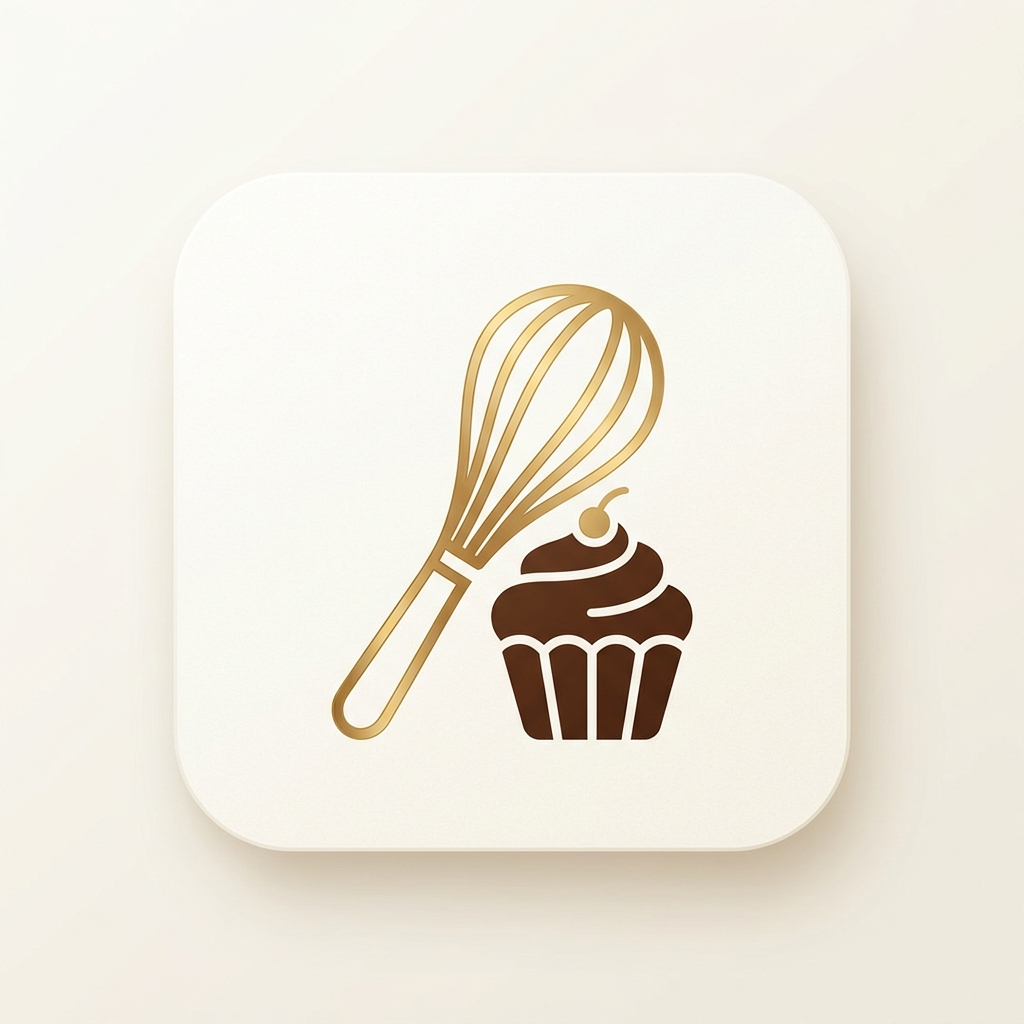
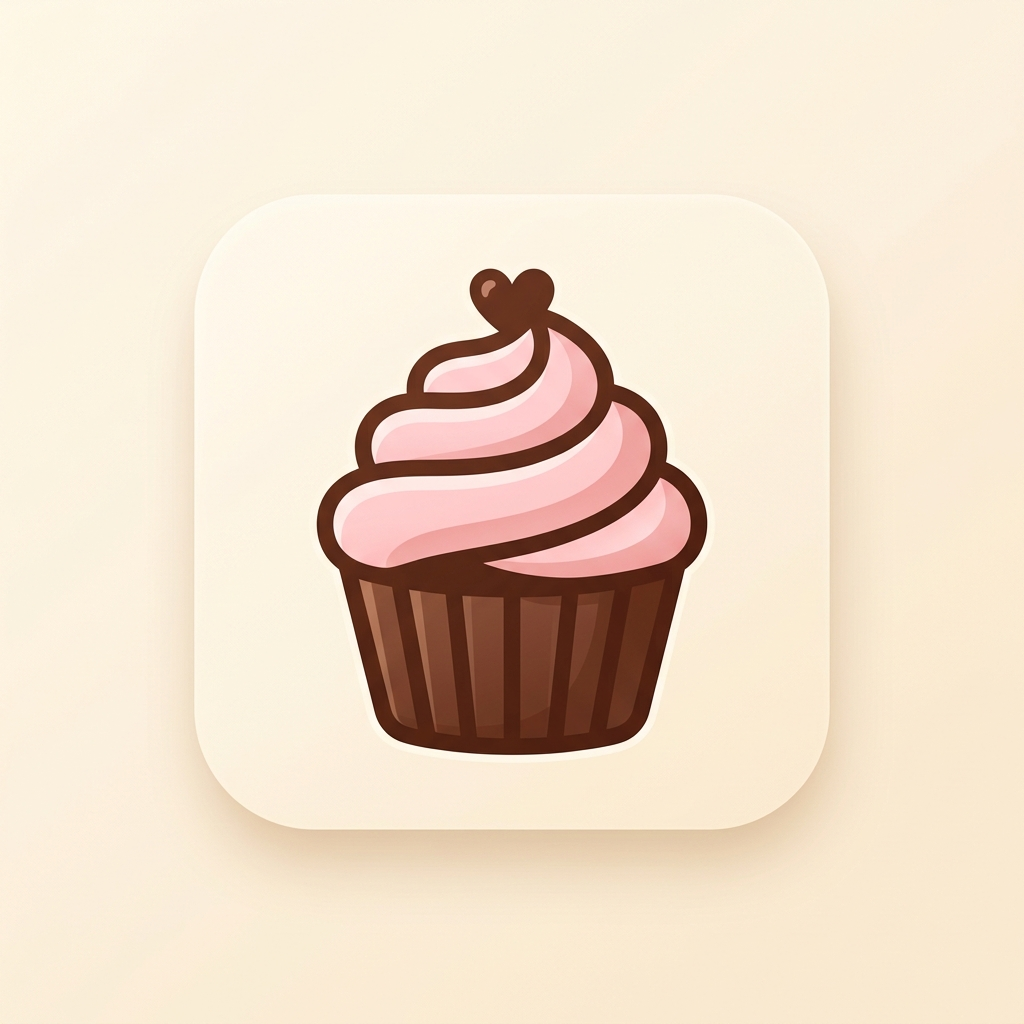
rebrand: rename app to BakersBestie (BaBe) and update visual identity

diff --git a/src/components/orders/OrderCard.tsx b/src/components/orders/OrderCard.tsx
@@ -77,7 +77,7 @@ export function OrderCard({ order, onStatusChange, onEdit, onRefresh }: OrderCar
   const isTomorrow = order.delivery_date === new Date(Date.now() + 86400000).toISOString().split('T')[0];
 
   const handleCopyLabel = () => {
-    const label = `🏷 *ORDER LABEL*\n------------------\n👤 *Customer:* ${order.customer_name}\n🧁 *Product:* ${order.product_name} x${order.quantity}\n📅 *Date:* ${order.delivery_date}\n📝 *Note:* ${order.special_notes || '-'}\n------------------\n#BakerFlow`;
+    const label = `🏷 *ORDER LABEL*\n------------------\n👤 *Customer:* ${order.customer_name}\n🧁 *Product:* ${order.product_name} x${order.quantity}\n📅 *Date:* ${order.delivery_date}\n📝 *Note:* ${order.special_notes || '-'}\n------------------\n#BakersBestie #BaBe`;
     navigator.clipboard.writeText(label);
     alert('Label copied to clipboard! Paste it into your printer or notes.');
   };

diff --git a/src/app/layout.tsx b/src/app/layout.tsx
@@ -13,16 +13,16 @@ const geistMono = Geist_Mono({
 });
 
 export const metadata: Metadata = {
-  title: "BakerFlow — Your Kitchen Command Centre",
-  description: "The all-in-one bakery management app for home bakers. Manage orders, production, inventory and grow your business.",
+  title: "BakersBestie — Your Baking Best Friend 🧁",
+  description: "The all-in-one baking management app (BaBe). Manage orders, production, inventory and grow your business.",
   manifest: "/manifest.json",
   appleWebApp: {
     capable: true,
     statusBarStyle: "default",
-    title: "BakerFlow",
+    title: "BakersBestie",
   },
   openGraph: {
-    title: "BakerFlow",
+    title: "BakersBestie",
     description: "The all-in-one bakery management app for home bakers.",
     type: "website",
   },

diff --git a/src/components/navigation/Nav.tsx b/src/components/navigation/Nav.tsx
@@ -63,8 +63,8 @@ export function SideNav() {
   return (
     <aside className="hidden md:flex flex-col w-64 bg-white border-r border-muted p-6 space-y-8 min-h-screen">
       <div className="flex items-center gap-3">
-        <div className="w-10 h-10 bg-primary rounded-xl flex items-center justify-center text-white font-black text-sm">BF</div>
-        <span className="text-xl font-black text-foreground">BakerFlow</span>
+        <div className="w-10 h-10 bg-primary rounded-xl flex items-center justify-center text-white font-black text-[10px] text-center leading-tight">BA<br/>BE</div>
+        <span className="text-xl font-black text-foreground">BakersBestie</span>
       </div>
       <nav className="flex-1 space-y-1">
         {navItems.map(item => {

diff --git a/src/app/[shop]/layout.tsx b/src/app/[shop]/layout.tsx
@@ -11,7 +11,7 @@ export default function OrderLayout({
       <div className="w-full max-w-lg bg-white min-h-screen md:min-h-[90vh] md:rounded-[3rem] md:shadow-2xl md:my-auto overflow-hidden flex flex-col">
         {/* Simple Header */}
         <header className="p-6 flex items-center justify-between border-b border-muted">
-          <span className="text-xl font-bold text-primary">BakerFlow</span>
+          <span className="text-xl font-bold text-primary">BakersBestie</span>
           <div className="text-xs text-foreground/40 font-medium">Ordering Portal</div>
         </header>
 

diff --git a/src/app/dashboard/planner/page.tsx b/src/app/dashboard/planner/page.tsx
@@ -212,7 +212,7 @@ export default function PlannerPage() {
       {schedule.length > 0 && (
         <button 
           onClick={() => {
-            const text = `📅 *Task List BakerFlow (${formatDate(selectedDate)})*\n\n` + 
+            const text = `📅 *BakersBestie Task List (${formatDate(selectedDate)})*\n\n` + 
               schedule.map((item, i) => 
                 `${i+1}. *${item.customer}* (${item.product})\n` +
                 `   🥣 Prep: ${item.prepStart.toLocaleTimeString([], { hour: '2-digit', minute: '2-digit' })}\n` +

diff --git a/src/app/dashboard/inventory/page.tsx b/src/app/dashboard/inventory/page.tsx
@@ -152,7 +152,7 @@ export default function InventoryPage() {
 
   const handleShareWhatsApp = () => {
     if (shoppingList.length === 0) return;
-    let message = `🛒 *SHOPPING LIST BAKERFLOW*\n\n`;
+    let message = `🛒 *SHOPPING LIST - BAKERSBESTIE*\n\n`;
     shoppingList.forEach((item, idx) => {
       let packInfo = '';
       if (item.ingredient.pack_size) {

diff --git a/src/app/login/page.tsx b/src/app/login/page.tsx
@@ -155,7 +155,7 @@ export default function LoginPage() {
         </div>
 
         <p className="text-center text-foreground/30 text-xs">
-          BakerFlow • Built for home bakers with ❤
+          BakersBestie • Built for home bakers with ❤
         </p>
       </div>
     </div>
